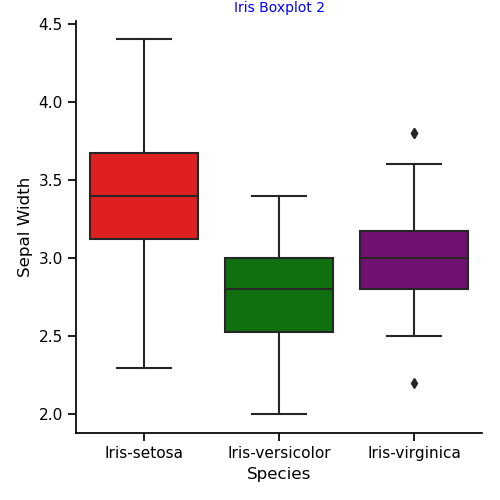
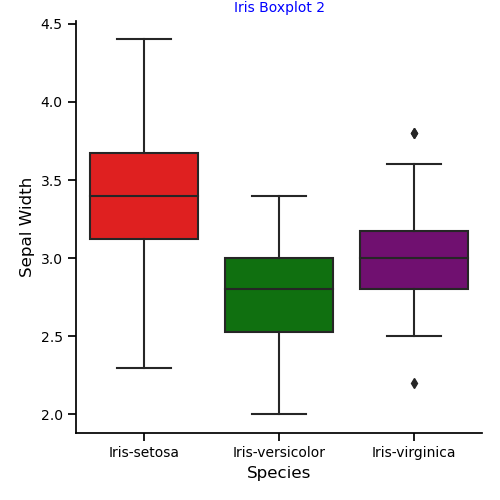
improving heatmap plot and boxplots;improving readme file content

diff --git a/visual.py b/visual.py
@@ -98,10 +98,10 @@ plt.close()
 # Helps understanding that data through clear visualization
 
 # This is to separate the attribute variables into a list
-variables = ['Sepal Length', 'Sepal Width','Petal Length','Petal Width']
+features = ['Sepal Length', 'Sepal Width','Petal Length','Petal Width']
 # Use of Pairgrid setting diagonal plots to be histograms which will provide a distribution plot of each variable
 # Chose scatterplot to plot each individual data by the species of the flower
-g = sns.PairGrid(data=iris2, hue = "Species", vars = variables, height=5, aspect=5/5)
+g = sns.PairGrid(data=iris2, hue = "Species", vars = features, height=5, aspect=5/5)
 g.map_diag(sns.histplot)
 g.map_offdiag(sns.scatterplot)
 g.add_legend()
@@ -113,29 +113,41 @@ plt.close()
 # Boxplot presentation of individual species, it allows
 # to draw comparison at a very high level between the flowers, but would need to be further broken down 
 # to be able to use the visualized data for prediction purposes
-g=sns.catplot(data=iris2, kind="box", x="Species",y=variables[0])
+g=sns.catplot(data=iris2, kind="box", x="Species",y=features[0])
 plt.title("Iris Boxplot 1", c="Blue", size=10)
+plt.xticks(size=10)
+plt.yticks(size=10)
 plt.savefig('Iris_BP_by_Species1.png')
 plt.close()
 
-g=sns.catplot(data=iris2, kind="box", x="Species",y=variables[1])
+g=sns.catplot(data=iris2, kind="box", x="Species",y=features[1])
 plt.title("Iris Boxplot 2", c="Blue", size=10)
+plt.xticks(size=10)
+plt.yticks(size=10)
 plt.savefig('Iris_BP_by_Species2.png')
 plt.close()
 
-g=sns.catplot(data=iris2, kind="box", x="Species",y=variables[2])
+g=sns.catplot(data=iris2, kind="box", x="Species",y=features[2])
 plt.title("Iris Boxplot 3", c="Blue", size=10)
+plt.xticks(size=10)
+plt.yticks(size=10)
 plt.savefig('Iris_BP_by_Species3.png')
 plt.close()
 
-g=sns.catplot(data=iris2, kind="box", x="Species",y=variables[3])
+g=sns.catplot(data=iris2, kind="box", x="Species",y=features[3])
 plt.title("Iris Boxplot 4", c="Blue", size=10)
+plt.xticks(size=10)
+plt.yticks(size=10)
 plt.savefig('Iris_BP_by_Species4.png')
 plt.close()
+
 # The heatmap is very useful when trying to establish correlation between variables. 
 
-sns.heatmap(iris2.corr(), annot=True, cmap="Purples")
+sns.heatmap(iris2.corr(), annot=True, cmap="Purples", linewidths=1.5, linecolor="white", xticklabels=True, yticklabels=True)
+sns.set_context("notebook", font_scale=1)
 plt.title("Iris Attributes - Heatmap", c="Blue", size=15)
+plt.xticks(size=10)
+plt.yticks(rotation=90, size=10) # rotation of ylabel test as it was not showing on the plot with the full text length
 plt.savefig('Iris_Heatmap.png')
 plt.close()
 

diff --git a/README.md b/README.md
@@ -46,7 +46,7 @@ NumPy stands for Numerical Python. Ref [What is NumPy](https://www.w3schools.com
 2. IMPORTING THE IRIS DATASET<br>
 The dataset was downloaded from Ref [UCI Machine Learning Repository](https://archive.ics.uci.edu/ml/datasets/iris) as iris.data file. This file is with a .data extension which is commonly used for storeing datasets. Python's Pandas library command read_csv provides a solution to convert read this file as a CSV (Comma separated file).<br>
 When reading the file in its original version it was noted that the columns have no headers/names.
-Based on the attribute data as per names.data file also available @ Ref [UCI Machine Learning Repository](https://archive.ics.uci.edu/ml/datasets/iris) a list [cols] was created and added to the file under a new dataframe called iris2.
+Based on the attribute data as per names.data file also available @ Ref [UCI Machine Learning Repository](https://archive.ics.uci.edu/ml/datasets/iris) a list [cols] was created and added to the file under a new dataframe called iris2.<br>
 <img src="Import_Head_Dataset.PNG" width = "500">
 
 3. ANALYZING THE DATASET<br>
@@ -59,13 +59,13 @@ Ref [Write command line output to a file](https://stackoverflow.com/questions/90
 4. VISUALIZATION<br>
 
 A lot of the data included in [summary.txt](/pands-project/summary.txt) can be represented in a graphical way also. Python libraries utilized in this visualization attempt were Matplotlib and Seaborn. Seaborn is built upon Matplotlib and is widely used for representing data in a highly efficient manner. The approach followed in this project is included and detailed in the file [visual.py](/pands-project/visual.py).<br>
-Historgrams were used to plot each variable (feature): Sepal Length, Sepal Width, Petal Length and Petal width. Histograms provide information about the distribution of the datapoints for each feature. Pictures of each histogram can be found in this Github Folder.<br>
+Historgrams were used to plot each variable (feature): Sepal Length, Sepal Width, Petal Length and Petal width. Histograms provide information about the distribution of the datapoints for each feature. Pictures of each histogram can be found in this Github repository.<br>
 
 <img src="Hist_petal_length.png" width="300"> <img src="Hist_petal_width.png" width="300"><br>
 
 <img src="Hist_sepal_length.png" width="300"> <img src="Hist_sepal_width.png" width="300">
 
-The plots  allow to determine the dimensions of each feature and the most frequent values they occure with, but as some of the data do not prove to be following a normal distribution it is not easy to determine the mean values or the standard deviation for each feature. In addition, the historgrams do not provide a breakdown of the species which they incorporate on the graph of each feature.<br>
+The plots allow to determine the dimensions of each feature and the most frequent values they occure with, but as some of the data do not prove to be following a normal distribution it is not easy to determine the mean values or the standard deviation for each feature based on these plots. In addition, the historgrams do not provide a breakdown of the species on the individual graphs.<br>
 
 Although individual scatter plots were also generated to examine the distribution of the datapoints by differentiating between the species of the flowers. The PairGrid option in Seaborn allowed a more efficient presentation of all datapoints on scatterplots as well as distribution plots (Histograms) diagonally.
 
@@ -76,27 +76,30 @@ Although individual scatter plots were also generated to examine the distributio
 
 <img src="Iris_Features_PairPlot.png" width="400">
 
-On these graphs it becomes evident that the Iris-Setosa datapoints are isolated compared to the other two species. Both petal length and petal width show significantly smaller dimensions compared to Iris-Versicolor and Iris-Virginica. On this pairgrid additional insight is gained to the histograms (diagonal plots for each feature). The red colour for Iris Setosa is  frequent in the lower range of values for all features except for Sepal Width where it seems have a spread of values, the majority of which are in the higher value range.
+The plots show that the Iris-Setosa datapoints are isolated compared to the other two species. Both petal length and petal width for Iris-setosa show significantly smaller dimensions compared to Iris-Versicolor and Iris-Virginica. On this pairgrid additional insight is gained to the histograms (diagonal plots for each feature). The red colour for Iris Setosa accumulates in the lower range of values for all features except for Sepal Width where it seems have a spread of values, in the higher end of the value range. The histograms also show Iris-setosa petal dimensions are isolated from the other two species and only very little overlap is present between Iris-versicolor and Iris-virginica.<br>
 
 Box plots present a more complex way to visualize data and consequently can tell more information about each feature and flower species. Boxplots detail the minimum and maximum values of the datapoints in each distribution, the 25th, 50th (Median) and 75th percentile and also give indication about any outliers in the distribution.
 
 <img src="Iris_BP_by_Species1.png" width="300"> <img src="Iris_BP_by_Species2.png" width="300"><br>
 <img src="Iris_BP_by_Species3.png" width="300"> <img src="Iris_BP_by_Species4.png" width="300">
 
-On review of the boxplots for each feature by flower species, it becomes evident that based on the petal dimensions it would be very easy to conclude if a flower is Iris Setosa, based on its petal dimensions. On the other hand, it would prove more difficult to differentiate between Iris-Versicolor and Iris-Virginica based on the petal length values.<br>
+On review of the boxplots for each feature by flower species, it is evident that based on the petal length it would be very easy to conclude if a flower is Iris Setosa. It would prove more difficult to differentiate between Iris-Versicolor and Iris-Virginica based on the petal length values as there is still some overlap across the distribution of the datapoints.<br>
+Sepal dimensions have a much wider range of values across all three species. Consequently, sepal features would not be suitable to be used for classification purposes.<br>
 
-Finally, correlation was also assessed as it may be used for prediction purposes. A heatmap was prepared to visualize the correlation values already detailed in the summary.txt file.<br>
+Finally, correlation was also assessed. Correlation is commonly used for prediction purposes. A heatmap was prepared to visualize the correlation values, which were already detailed in the summary.txt file.<br>
 
 <img src="Iris_Heatmap.png" width="300">
 
-The scale on the right hand side of the heatmap indicates the colour scale of the correlation value, the closer it is to 1 the stronger the correlation between the features. Sepal width clearly shows no correlation with any of the other features. This heatmap would need to be further developed in order to understand the true correlation between features by flower species.
+The scale on the right hand side of the heatmap indicates the colour scale of the correlation value, the closer it is to the value of 1 the stronger the correlation between the features is. Sepal width clearly shows no correlation with any of the other features. There seems to be stonger correlation between Sepal length and Petal Length/Petal Width as well as Petal Length and Petal Width.
+This heatmap, however, would need to be further assessed in order to understand the true correlation between features by flower species as changes in one feature may not necesarily result in changes in the other feature. Their correlation may be related to other components that are not discussed by this dataset.<br>
 
 5. CONCLUSIONS<br>
 
-This dataset developed and discussed in R.A Fisher's paper is a simple dataseet but is commonly used for learning purposes to understand the concepts of data analytics. It is also used as good example for machine learning purposes. It can be freely downloaded from the internet and also is part of the in built datasets in SKlearn and in Seaborn Libraries.
-This dataset would have been studied by numerous people for various academic purposes, and to practice coding in data analytics, amongst many other.<br>
+This dataset developed and discussed in R.A Fisher's paper is a simple dataseet and is commonly used for learning purposes to understand the concepts of data analytics. It is also used as good example for machine learning purposes. It can be freely downloaded from the internet and also is part of the in built datasets in SKlearn and in Seaborn Libraries.
+This dataset would have been studied by numerous people for various academic purposes, and to practice coding in data analytics.<br>
 
-Using the graphical representation of the data in section 4 conclusion can be drawn that Iris-Setosa has significantly smaller petal dimensions. If data was to be used to determine the species of a newly found flower the boxplots clearly determine that if the petal length of the flower is below 2 cm, or if the value of petal width is below 1 cm we can be certain that it is an Iris-Setosa. When using the median values for the same features, it could also be determined with high enough confidence level, if the flower is an Iris-Versicolor or an Iris-Virginica. The sepal dimensions however are not that straight forward and further tools would need to be utilized such as the k-nearest neighbour algorith used in Machine Learning to be able to make more reliable predictions over the classification of future flowers.<br>
+Using the graphical representation of the data in section 4 conclusion can be drawn that Iris-Setosa has significantly smaller petal dimensions. If data was to be used to determine the species of a newly found flower the boxplots clearly determine that if the petal length of the flower is below 2 cm, or if the value of petal width is below 1 cm we can be certain that it is an Iris-Setosa. The best feature to determine the Iris flower type remains to be the Petal length as it allows to differenciate between Iris-versicolor and Iris-virginica. Any values between 2.0cm-4.5cm can confidently be deemed as Iris-versicolor and any petal length dimension greater than 5.0cm may be considered an Iris-virginica.<br>
+The sepal dimensions however are not that straight forward and further tools would need to be utilized, such as the k-nearest neighbour algorithm, in Machine Learning to be able to make more reliable predictions over the classification of future flowers.<br>
 
 6. LIST OF FILES in REPOSITORY
 
